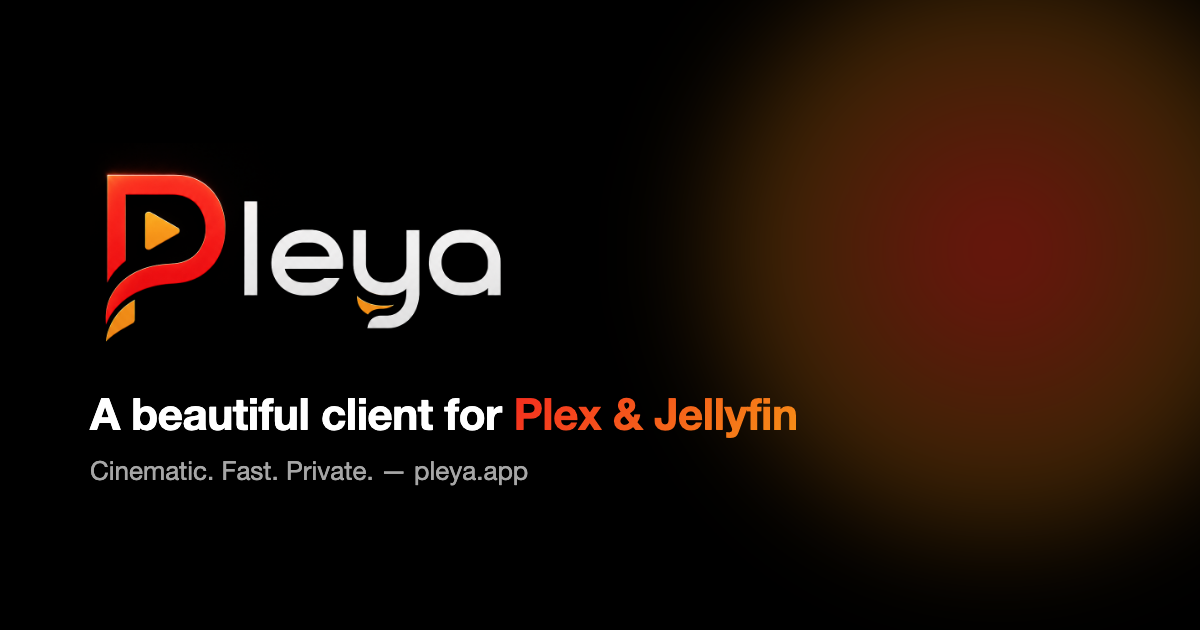
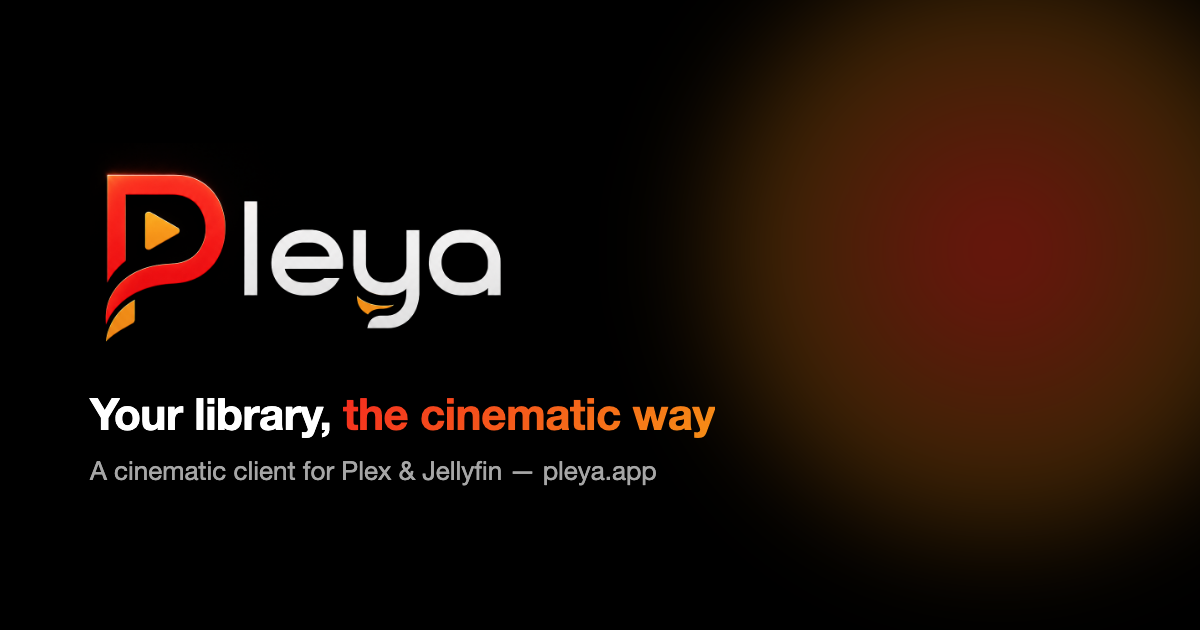
feat(website): eigen identiteit — upstream-copy en template-volgorde losgelaten
- H1 'Your library, the cinematic way' (was letterlijk upstream's H1)
- meta-title mee, OG-image geregenereerd met nieuwe tagline
- sectie-volgorde omgedraaid (screenshots vóór features)

Changed region(s): [[0.0617, 0.6333, 0.6783, 0.6937], [0.0617, 0.7238, 0.555, 0.7841]]

diff --git a/website/src/lib/components/Hero.svelte b/website/src/lib/components/Hero.svelte
@@ -26,14 +26,14 @@
     />
 
     <h1 class="hero-title fade-in" style="animation-delay: 100ms;">
-      <span class="title-line">A beautiful client for</span>
-      <span class="title-line gradient-text">Plex &amp; Jellyfin</span>
+      <span class="title-line">Your library,</span>
+      <span class="title-line gradient-text">the cinematic way</span>
     </h1>
 
     <p class="hero-description fade-in" style="animation-delay: 200ms;">
-      A cinematic home for your media library — fast, private, and gorgeous on
-      every screen. Your taste stays yours: recommendations are computed on your
-      device and never leave it.
+      Pleya turns your Plex or Jellyfin server into a rich, cinema-like
+      experience — fast, private, and gorgeous on every screen. Your taste stays
+      yours: recommendations are computed on your device and never leave it.
     </p>
 
     <p class="platform-line fade-in" style="animation-delay: 260ms;">

diff --git a/website/src/routes/+page.svelte b/website/src/routes/+page.svelte
@@ -7,7 +7,7 @@
   import NoiseOverlay from '$lib/components/NoiseOverlay.svelte';
   import { faqSchemaMainEntity } from '$lib/content/faqs';
 
-  const title = "Pleya — A Beautiful Plex & Jellyfin Client";
+  const title = "Pleya — Your library, the cinematic way";
   const description = "Pleya is a cinematic, fast, and private client for Plex and Jellyfin. Now in TestFlight beta for iPhone, Apple TV, and macOS — with on-device recommendations, HDR, Dolby Vision, and direct play.";
   const url = "https://pleya.app/";
   const image = "https://pleya.app/og/pleya-social.png";
@@ -53,7 +53,7 @@
 
 <NoiseOverlay />
 <Hero />
-<Features />
 <Screenshots />
+<Features />
 <FAQ />
 <Footer />
